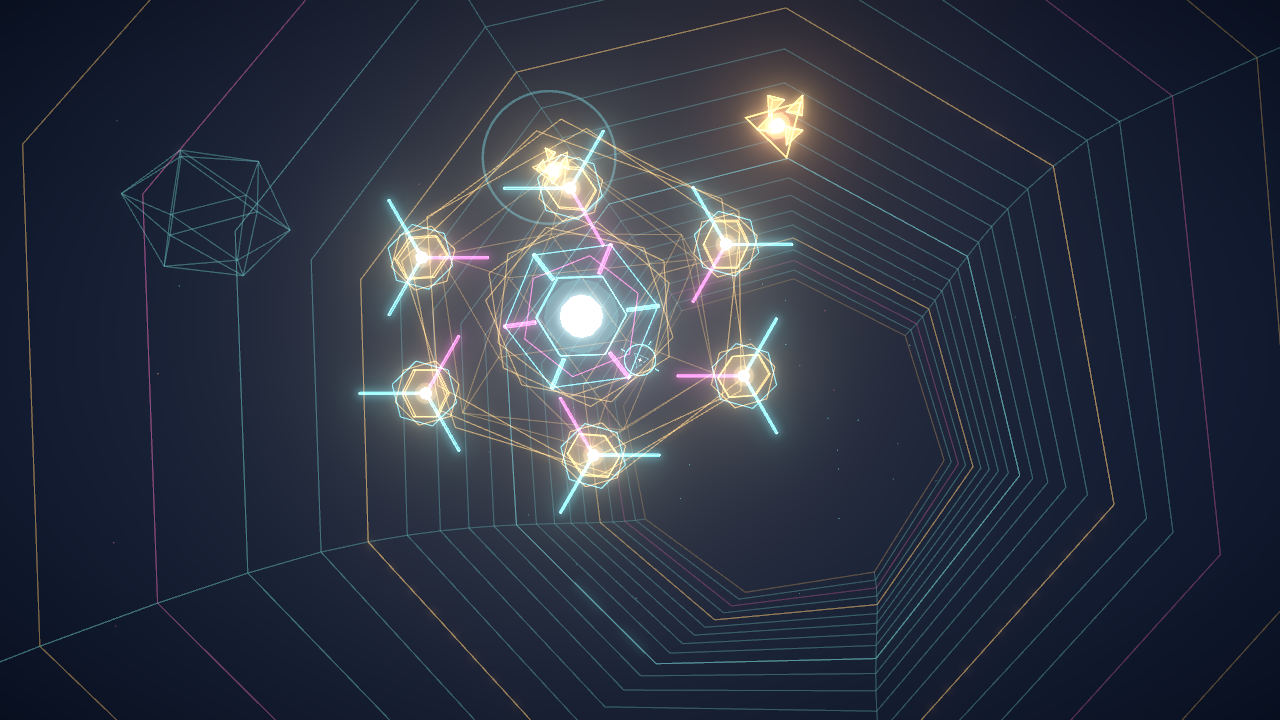
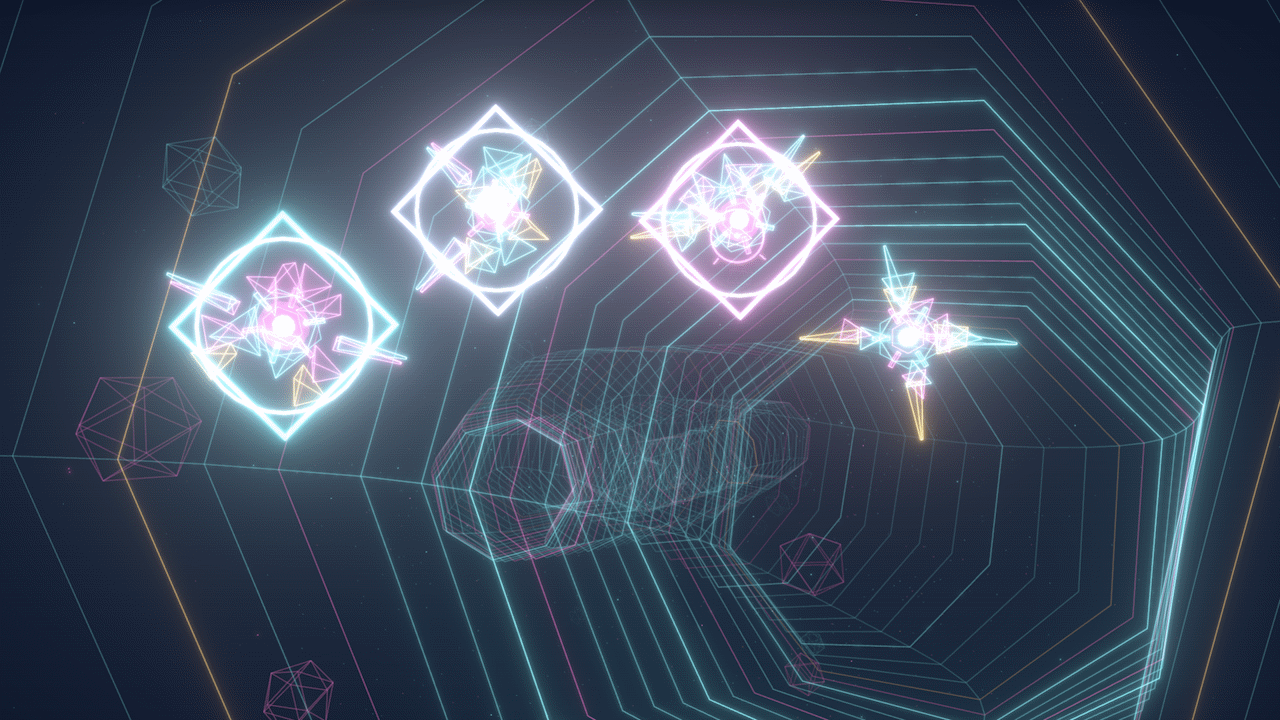
Add landing page level previews

diff --git a/src/app/pages/PublicPages.tsx b/src/app/pages/PublicPages.tsx
@@ -1,10 +1,16 @@
 import type { CSSProperties } from 'react';
-import { selectableLevelGroups } from '../../levels';
+import { levelMetadatas, selectableLevelGroups } from '../../levels';
 import { rankCatalog } from '../../benchmark/catalog';
 import { homeCopy } from '../content';
 import { RouteLink } from '../components/RouteLink';
 
 export function HomePage({ onNavigate }: { onNavigate: (path: string) => void }) {
+  const crystalHero = levelMetadatas.find((level) => level.id === 'crystal-corridor')?.contentImages?.hero;
+  const rankPreviewHeroes = ['mass-driver-vyxj', 'mass-driver-wo4m'].flatMap((levelId) => {
+    const entrant = rankCatalog.entrants.find((candidate) => candidate.levelId === levelId);
+    return entrant?.thumbnailPath ? [entrant.thumbnailPath] : [];
+  });
+
   return (
     <>
       <section className="hero page-panel hero-with-graphic">
@@ -19,16 +25,22 @@ export function HomePage({ onNavigate }: { onNavigate: (path: string) => void })
       </section>
       <section className="home-choice-grid" aria-label="Choose where to start">
         <article className="home-choice">
-          <p className="choice-eyebrow">{homeCopy.reference.eyebrow}</p>
-          <h2>{homeCopy.reference.title}</h2>
-          <p>{homeCopy.reference.body}</p>
-          <RouteLink className="button primary" href="/play/crystal-corridor" onNavigate={onNavigate}>{homeCopy.reference.action}</RouteLink>
+          {crystalHero && <div className="home-choice-media" aria-hidden="true"><img src={crystalHero} alt="" /></div>}
+          <div className="home-choice-copy">
+            <p className="choice-eyebrow">{homeCopy.reference.eyebrow}</p>
+            <h2>{homeCopy.reference.title}</h2>
+            <p>{homeCopy.reference.body}</p>
+            <RouteLink className="button primary" href="/play/crystal-corridor" onNavigate={onNavigate}>{homeCopy.reference.action}</RouteLink>
+          </div>
         </article>
         <article className="home-choice">
-          <p className="choice-eyebrow">{homeCopy.benchmark.eyebrow}</p>
-          <h2>{homeCopy.benchmark.title}</h2>
-          <p>{homeCopy.benchmark.body}</p>
-          <RouteLink className="button" href="/rank" onNavigate={onNavigate}>{homeCopy.benchmark.action}</RouteLink>
+          {rankPreviewHeroes.length > 0 && <div className="home-choice-media home-choice-media-pair" aria-hidden="true">{rankPreviewHeroes.map((heroPath) => <img src={heroPath} alt="" key={heroPath} />)}</div>}
+          <div className="home-choice-copy">
+            <p className="choice-eyebrow">{homeCopy.benchmark.eyebrow}</p>
+            <h2>{homeCopy.benchmark.title}</h2>
+            <p>{homeCopy.benchmark.body}</p>
+            <RouteLink className="button" href="/rank" onNavigate={onNavigate}>{homeCopy.benchmark.action}</RouteLink>
+          </div>
         </article>
       </section>
       <section className="home-note"><strong>Keep going to build your personal curve.</strong> {homeCopy.payoff}</section>

diff --git a/src/app/style.css b/src/app/style.css
@@ -87,8 +87,12 @@ body:not(.game-active) #app { position: relative; min-height: 100dvh; height: au
 
 /* ---------- Home ---------- */
 .home-choice-grid { display: grid; grid-template-columns: repeat(2, minmax(0, 1fr)); gap: 16px; width: 100%; max-width: none; margin: 68px auto 0; }
-.home-choice { display: flex; flex-direction: column; align-items: flex-start; padding: 28px; background: var(--card); border: 1px solid var(--hairline); }
+.home-choice { display: flex; flex-direction: column; align-items: stretch; overflow: hidden; background: var(--card); border: 1px solid var(--hairline); }
 .home-choice:hover { border-color: var(--ink); }
+.home-choice-media { width: 100%; aspect-ratio: 16 / 9; overflow: hidden; background: #171b2a; }
+.home-choice-media img { display: block; width: 100%; height: 100%; object-fit: cover; }
+.home-choice-media-pair { display: grid; grid-template-columns: repeat(2, minmax(0, 1fr)); gap: 3px; }
+.home-choice-copy { display: flex; flex: 1; flex-direction: column; align-items: flex-start; padding: 28px; }
 .choice-eyebrow { margin: 0 0 13px; color: var(--accent); font-size: 9.5px; letter-spacing: .18em; text-transform: uppercase; }
 .home-choice:last-child .choice-eyebrow { color: var(--muted); }
 .home-choice h2 { margin: 0 0 11px; color: var(--ink); font-size: 21px; }